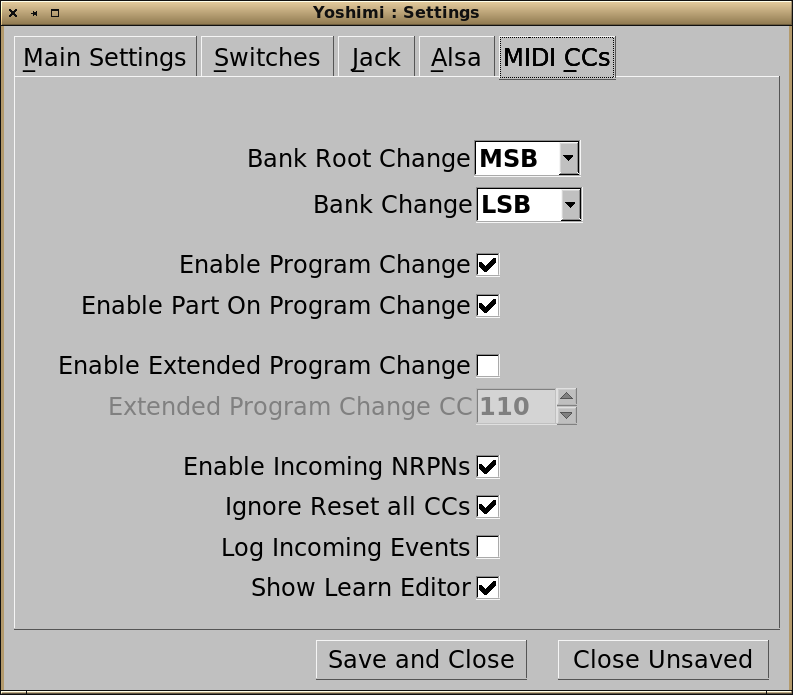
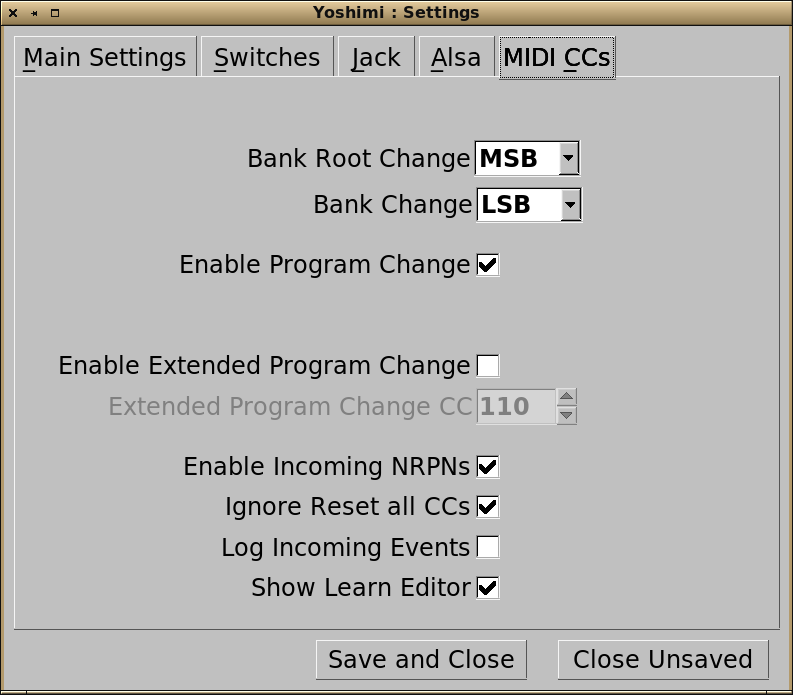
Removed controls to enable part on program change This was only relevant to MIDI and had not been working for some time. it was always enabled regardless of settings.
Made new bank style version numbers positive starting from 10
in order to be clear of trial version values.

Changed region(s): [[0.0908, 0.423, 0.6356, 0.4532]]

diff --git a/doc/yoshimi_user_guide/config/config.html b/doc/yoshimi_user_guide/config/config.html
@@ -105,8 +105,6 @@
     <br><br>
     <b>Enable Program Change</b> Determines whether you want to allow Program/Instrument changes via MIDI from <a href="../bank/bank.html">banks</a>.
     <br><br>
-    <b>Enable Part On Program Change</b> Having this set will activate a part if it is not active when it receives a program change message.
-    <br><br>
     <b>Enable Extended Program Change</b> This lets you set a specific CC that will then perform program changes on the upper 32 instruments in a bank.
     <br><br>
     <b>Extended Program Change CC</b> The is the actual CC to use for extended program changes. The value sent should be the slot number of the wanted Instrument minus 128.

diff --git a/doc/yoshimi_user_guide/cc_nrpn.html b/doc/yoshimi_user_guide/cc_nrpn.html
@@ -604,12 +604,6 @@
       <td>less than 64 disables</td>
     </tr>
     <tr>
-      <td>83</td>
-      <td> </td>
-      <td>Enable activation of part when program changed</td>
-      <td>&emsp;less than 64 disables</td>
-    </tr>
-    <tr>
       <td>84</td>
       <td> </td>
       <td>Set CC control for extended program change</td>

diff --git a/src/Misc/SynthEngine.cpp b/src/Misc/SynthEngine.cpp
@@ -1011,7 +1011,7 @@ int SynthEngine::setProgramByName(CommandBlock *getData)
     {
         Runtime.sessionSeen[TOPLEVEL::XML::Instrument] = true;
         addHistory(setExtension(fname, EXTEN::zynInst), TOPLEVEL::XML::Instrument);
-        partonoffLock(npart, 2 - Runtime.enable_part_on_voice_load); // always on if enabled
+        partonoffLock(npart, 1);
     }
     return msgID;
 }
@@ -1076,7 +1076,7 @@ int SynthEngine::setProgramFromBank(CommandBlock *getData, bool notinplace)
         partonoffLock(npart, 2); // as it was
     }
     else
-        partonoffLock(npart, 2 - Runtime.enable_part_on_voice_load); // always on if enabled
+        partonoffLock(npart, 1);
     return msgID;
 }
 
@@ -1394,13 +1394,7 @@ void SynthEngine::ListSettings(list<string>& msg_buf)
         msg_buf.push_back("  MIDI Bank CC " + asString(Runtime.midi_bank_C));
 
     if (Runtime.EnableProgChange)
-    {
         msg_buf.push_back("  MIDI Program Change on");
-        if (Runtime.enable_part_on_voice_load)
-            msg_buf.push_back("  MIDI Program Change enables part");
-        else
-            msg_buf.push_back("  MIDI Program Change doesn't enable part");
-    }
     else
         msg_buf.push_back("  MIDI program change off");
 
@@ -1612,13 +1606,6 @@ int SynthEngine::SetSystemValue(int type, int value)
         case 82: // enable program change
             value = (value > 63);
             cmd = CONFIG::control::enableProgramChange;
-            setpart = TOPLEVEL::section::config;
-            to_send = true;
-            break;
-
-        case 83: // enable part on program change
-            value = (value > 63);
-            cmd = CONFIG::control::instChangeEnablesPart;
             setpart = TOPLEVEL::section::config;
             to_send = true;
             break;
@@ -3727,9 +3714,6 @@ float SynthEngine::getConfigLimits(CommandBlock *getData)
             max = 119;
             break;
         case CONFIG::control::enableProgramChange:
-            break;
-        case CONFIG::control::instChangeEnablesPart:
-            def = 1;
             break;
         case CONFIG::control::extendedProgramChangeCC: // runtime midi checked elsewhere
             def = 110;

diff --git a/src/Misc/Config.cpp b/src/Misc/Config.cpp
@@ -129,7 +129,6 @@ Config::Config(SynthEngine *_synth, std::list<string>& allArgs, bool isLV2Plugin
     midi_bank_root(0), // 128 is used as 'disabled'
     midi_bank_C(32),   // 128 is used as 'disabled'
     midi_upper_voice_C(128),
-    enable_part_on_voice_load(1),
     enable_NRPN(true),
     ignoreResetCCs(false),
     monitorCCin(false),
@@ -636,7 +635,6 @@ bool Config::extractConfigData(XMLwrapper *xml)
         midi_bank_C = xml->getpar("midi_bank_C", midi_bank_C, 0, 128);
         midi_upper_voice_C = xml->getpar("midi_upper_voice_C", midi_upper_voice_C, 0, 128);
         EnableProgChange = 1 - xml->getpar("ignore_program_change", EnableProgChange, 0, 1); // inverted for Zyn compatibility
-        enable_part_on_voice_load = xml->getpar("enable_part_on_voice_load", enable_part_on_voice_load, 0, 1);
         instrumentFormat = xml->getpar("saved_instrument_format",instrumentFormat, 1, 3);
         enable_NRPN = xml->getparbool("enable_incoming_NRPNs", enable_NRPN);
         ignoreResetCCs = xml->getpar("ignore_reset_all_CCs",ignoreResetCCs,0, 1);
@@ -740,7 +738,7 @@ void Config::addConfigXML(XMLwrapper *xml)
     xml->addpar("midi_bank_C", midi_bank_C);
     xml->addpar("midi_upper_voice_C", midi_upper_voice_C);
     xml->addpar("ignore_program_change", (1 - EnableProgChange));
-    xml->addpar("enable_part_on_voice_load", enable_part_on_voice_load);
+    xml->addpar("enable_part_on_voice_load", 1); // for backward compatibility
     xml->addpar("saved_instrument_format", instrumentFormat);
     xml->addparbool("enable_incoming_NRPNs", enable_NRPN);
     xml->addpar("ignore_reset_all_CCs",ignoreResetCCs);

diff --git a/src/Misc/Bank.cpp b/src/Misc/Bank.cpp
@@ -49,7 +49,7 @@
 #include "Misc/FileMgrFuncs.h"
 #include "Misc/FormatFuncs.h"
 
-const int BANKS_VERSION = -1;
+const int BANKS_VERSION = 10;
 
 using file::make_legit_filename;
 using file::isRegularFile;
@@ -85,7 +85,7 @@ Bank::Bank(SynthEngine *_synth) :
     defaultinsname(string(" ")),
     synth(_synth)
 {
-    BanksVersion = -1;
+    BanksVersion = 10;
     InstrumentsInBanks = 0,
     BanksInRoots = 0;
 }
@@ -1554,7 +1554,7 @@ bool Bank::parseBanksFile(XMLwrapper *xml)
     {
         if (xml->enterbranch("INFORMATION"))
         { // going negative to catch all previous versions and to be backward compatible
-            writeVersion(xml->getpar("Banks_Version", 0, -99, 0));
+            writeVersion(xml->getpar("Banks_Version", 0, 0, 999));
             xml->exitbranch();
         }
         if (xml->enterbranch("BANKLIST"))
@@ -1721,7 +1721,7 @@ bool Bank::installNewRoot(size_t rootID, string rootdir, bool reload)
                 {
                     banksSet[id] = true;
 
-                    if (BanksVersion < 0) // all we need to do!
+                    if (BanksVersion > 9) // all we need to do!
                     {
                         checkbank(rootID, id);
                         InstrumentsInBanks += getBankSize(id, rootID);

diff --git a/src/Interface/TextLists.h b/src/Interface/TextLists.h
@@ -219,8 +219,7 @@ static std::string configlist [] = {
     "ROot [s]",            "root CC (Msb, Lsb, Off)",
     "BAnk [s]",            "bank CC (Msb, Lsb, Off)",
     "PRogram [s]",         "program change (ON, {other})",
-    "ACtivate [s]",        "program change activates part (ON, {other})",
-    "EXTended [n]",        "CC value for extended program change >= 128 is off",
+    "EXTended [n]",        "CC value for extended program change >= 120 is off",
     "Quiet [s]",           "ignore 'reset all controllers' (ON, {other})",
     "Nrpn [s]",            "incoming NRPN (ON, {other})",
     "Log [s]",             "incoming MIDI CCs (ON, {other})",

diff --git a/src/Interface/InterChange.cpp b/src/Interface/InterChange.cpp
@@ -2960,12 +2960,6 @@ void InterChange::commandConfig(CommandBlock *getData)
             else
                 value = synth->getRuntime().EnableProgChange;
             break;
-        case CONFIG::control::instChangeEnablesPart:
-            if (write)
-                synth->getRuntime().enable_part_on_voice_load = value_bool;
-            else
-                value = synth->getRuntime().enable_part_on_voice_load;
-            break;
         case CONFIG::control::extendedProgramChangeCC:
             if (write)
             {

diff --git a/src/CLI/CmdInterpreter.cpp b/src/CLI/CmdInterpreter.cpp
@@ -3323,11 +3323,6 @@ int CmdInterpreter::commandConfig(Parser& input, unsigned char controlType)
         command = CONFIG::control::enableProgramChange;
         value = (input.toggle() == 1);
     }
-    else if (input.matchnMove(2, "activate"))
-    {
-        command = CONFIG::control::instChangeEnablesPart;
-        value = (input.toggle() == 1);
-    }
     else if (input.matchnMove(3, "extend"))
     {
         command = CONFIG::control::extendedProgramChangeCC;

diff --git a/src/Interface/Data2Text.cpp b/src/Interface/Data2Text.cpp
@@ -872,10 +872,6 @@ string DataText::resolveConfig(CommandBlock *getData, bool addValue)
             contstr += "Enable program change";
             yesno = true;
             break;
-        case CONFIG::control::instChangeEnablesPart:
-            contstr += "Program change enables part";
-            yesno = true;
-            break;
         case CONFIG::control::extendedProgramChangeCC:
             if (addValue)
             {

diff --git a/src/Misc/Config.h b/src/Misc/Config.h
@@ -165,7 +165,6 @@ class Config
         int           midi_bank_root;
         int           midi_bank_C;
         int           midi_upper_voice_C;
-        int           enable_part_on_voice_load;
         bool          enable_NRPN;
         bool          ignoreResetCCs;
         bool          monitorCCin;

diff --git a/src/globals.h b/src/globals.h
@@ -320,7 +320,6 @@ namespace CONFIG // usage CONFIG::control::oscillatorSize
         bankRootCC = 65,
         bankCC = 67,
         enableProgramChange,
-        instChangeEnablesPart,
         extendedProgramChangeCC = 71,
         ignoreResetAllCCs,
         logIncomingCCs,
